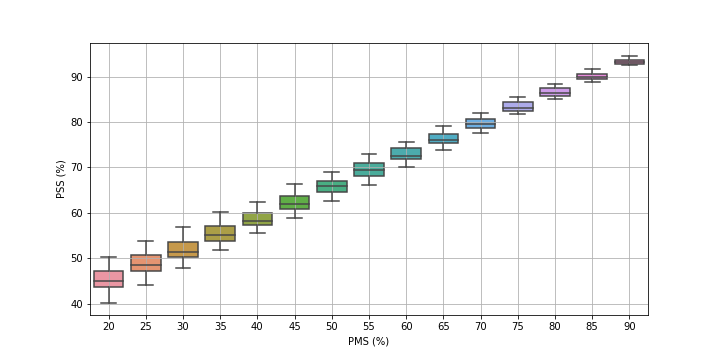
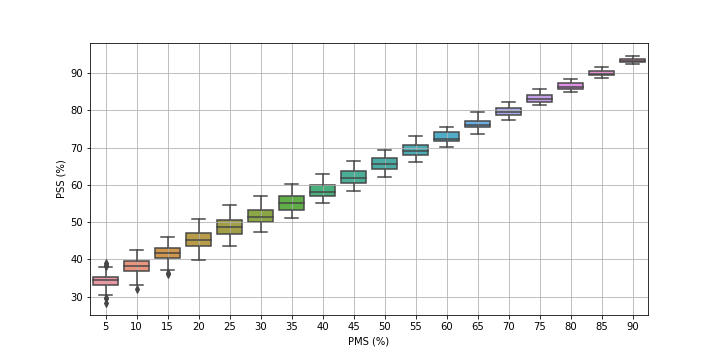
paper updates on csnet results. conclusion revision.

diff --git a/paper/sec_conclusion.tex b/paper/sec_conclusion.tex
@@ -3,38 +3,35 @@
 \label{sec:conclusion}
 
 We summarize the key features and benefits of our encoding scheme.
-
-\begin{itemize}
-    \item The scheme converts digital compressive measurements
-    to a finite alphabet suitable for entropy coding using
-    simple adaptive quantization and clipping steps that introduce
-    a limited amount of quantization noise.
-    \item The quantized measurements can be modeled using a quantized
-    Gaussian distribution reasonably well for entropy coding where
-    the model parameters are estimated directly from the data.
-    \item ANS entropy coding can efficiently encode them into a
-    bitstream.
-    \item The encoder can be easily implemented using integer arithmetic
-    on resource-limited devices.
-    \item Our entropy coding scheme does not require a fixed codebook.
-    It can adapt to changing signal characteristics frame by frame. 
-    \item The overhead of encoding the entropy model parameters
-    as side information in the bitstream is negligible.
-    \item Frame-by-frame encoding in the bitstream 
-    allows us to implement real-time decoding on the receiver side.
-    \item In the low PRD (high SNR) regime, where we need a larger number
-    of measurements, our encoding scheme can
-    give additional savings in the range of 25\%.
-    \item Even with a low number of measurements (with lower SNR),
-    we can get additional space savings of $5-10 \%$.
-    \item The decoder can use any suitable reconstruction algorithm.
-    We have shown it working with BSBL-BO and CSNet.  
-    \item We have described a complete bitstream specification for
-    the carriage of all the side information needed to decode the
-    entropy-coded compressive measurements.
-    \item The codec architecture is general enough to be applied
-    in other compressive sensing applications also.
-\end{itemize}
+Our scheme converts digital compressive measurements
+to a finite alphabet suitable for entropy coding using
+simple adaptive quantization and clipping steps with limited quantization noise.
+The quantized measurements can be approximately modeled using a quantized
+Gaussian distribution for entropy coding.
+ANS entropy coding can efficiently encode them into a
+bitstream.
+The encoder can be easily implemented using integer arithmetic
+on resource-limited devices.
+Our entropy coding scheme does not require a fixed codebook.
+It can adapt to changing signal characteristics frame by frame. 
+% The overhead of encoding the entropy model parameters
+% as side information in the bitstream is negligible.
+% Frame-by-frame encoding in the bitstream 
+% allows us to implement real-time decoding on the receiver side.
+We see additional PSS gains of 5-10\% (at higher PMS and PRD)
+up to 25\% (at lower PMS and PRD).
+% In the low PRD (high SNR) regime, where we need a larger number
+% of measurements, our encoding scheme can
+% give additional savings in the range of 25\%.
+% Even with a low number of measurements (with lower SNR),
+% we can get additional space savings of $5-10 \%$.
+The decoder can use any suitable reconstruction algorithm.
+We have shown it working with BSBL-BO and CSNet.  
+% We have described a complete bitstream specification for
+% the carriage of all the side information needed to decode the
+% entropy-coded compressive measurements.
+The codec architecture is general enough to be applied
+in other compressive sensing applications also.
 
 The software code implementing this codec
 and all scripts for the experimental studies conducted

diff --git a/paper/sec_results.tex b/paper/sec_results.tex
@@ -291,23 +291,24 @@ with BSBL-BO algorithm}
 \label{fig-res-bsbl-pms-prd-boxplot-d4}
 \end{figure}
 
-\subsection{Reconstruction with CS-NET}
-For CS-NET, a window size of $n=256$ was chosen.
-
-\Cref{fig-res-csnet-pms-prd-errorbar} shows the variation
-of mean PRD with PMS for $d=4$ when CS-NET is used in the decoder.
-\Cref{fig-res-csnet-pms-prd-boxplot}  more detailed box plots
+\subsection{Reconstruction with CSNet}
+For CSNet, a window size of $n=256$ was chosen following \cite{zhang2021csnet}.
+We only trained and tested for a fixed binary sensing matrix with $d=4$.
+\Cref{fig-res-csnet-pms-prd-boxplot} shows detailed box plots
 for the variation of PRD with PMS across the 48 records.
-We note that CS-NET can reconstruct well up to 80\% PMS
-with 7\% additional space savings.
+We note that CSNet can reconstruct well up to 80\% PMS
+with 7\% additional space savings (mean PSS being 87\%).
+Reconstruction quality degrades far more slowly for CSNet
+with mean PRD being 16.5 \% for a PMS of 90 \%
+and mean PSS being 93.4\%. 
 
-\begin{figure}
-\centering
-\includegraphics[width=0.95\linewidth]{images/csnet/pms-vs-prd-errorbar.png}
-\caption{Error bars for variation of mean PRD with PMS at $d=4$ for reconstruction with
-CS-NET.}
-\label{fig-res-csnet-pms-prd-errorbar}
-\end{figure}
+% \begin{figure}
+% \centering
+% \includegraphics[width=0.95\linewidth]{images/csnet/pms-vs-prd-errorbar.png}
+% \caption{Error bars for variation of mean PRD with PMS at $d=4$ for reconstruction with
+% CS-NET.}
+% \label{fig-res-csnet-pms-prd-errorbar}
+% \end{figure}
 
 \begin{figure}
 \centering
